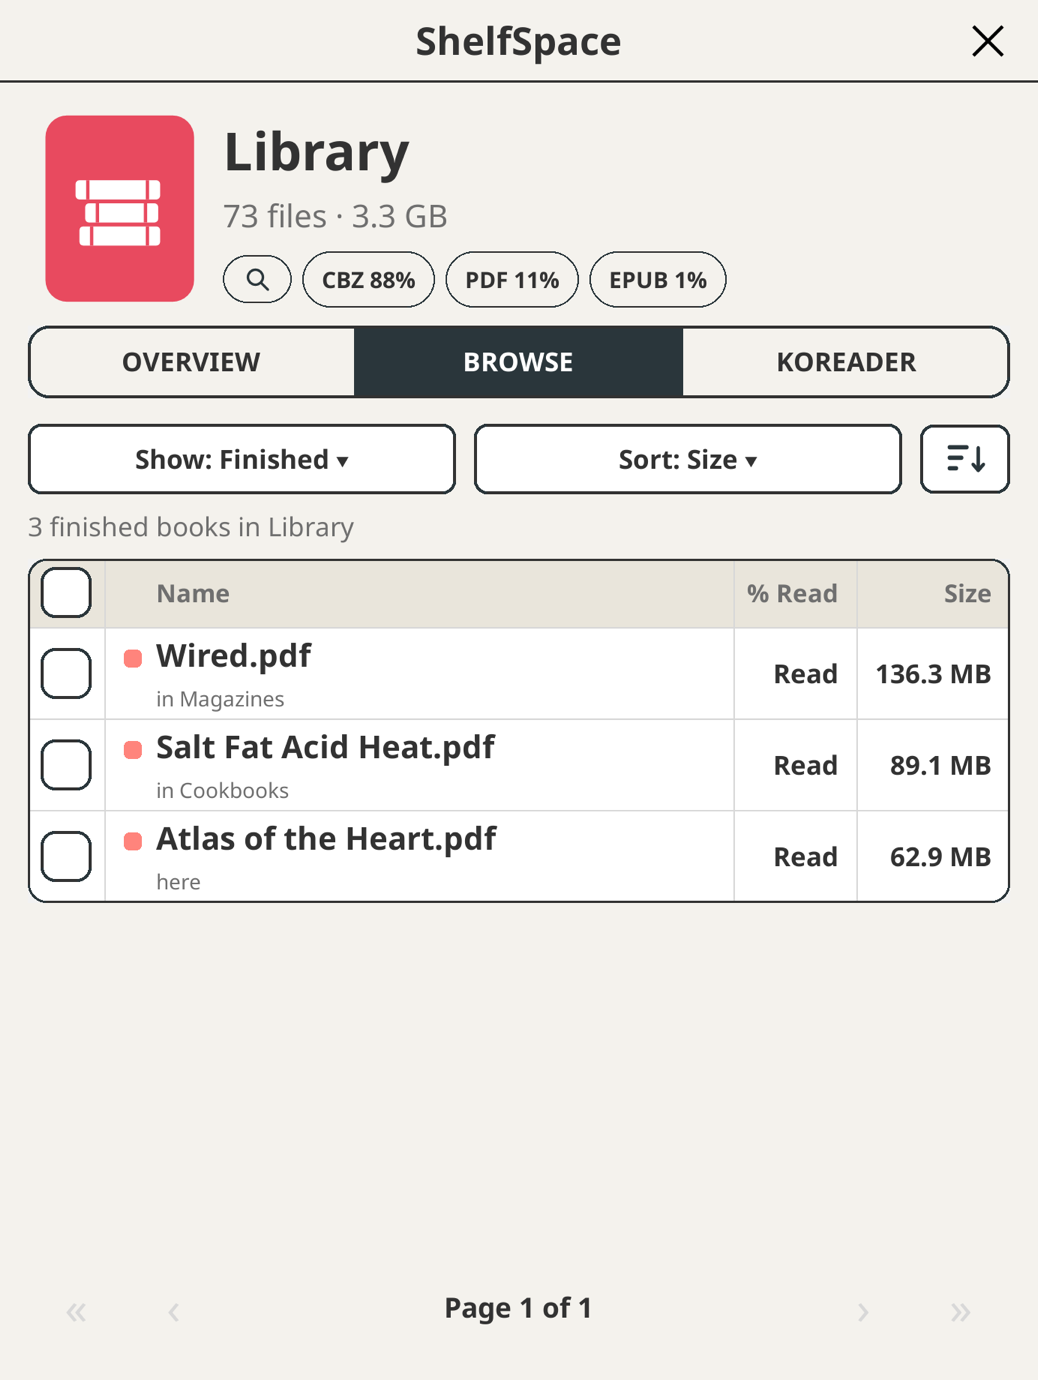
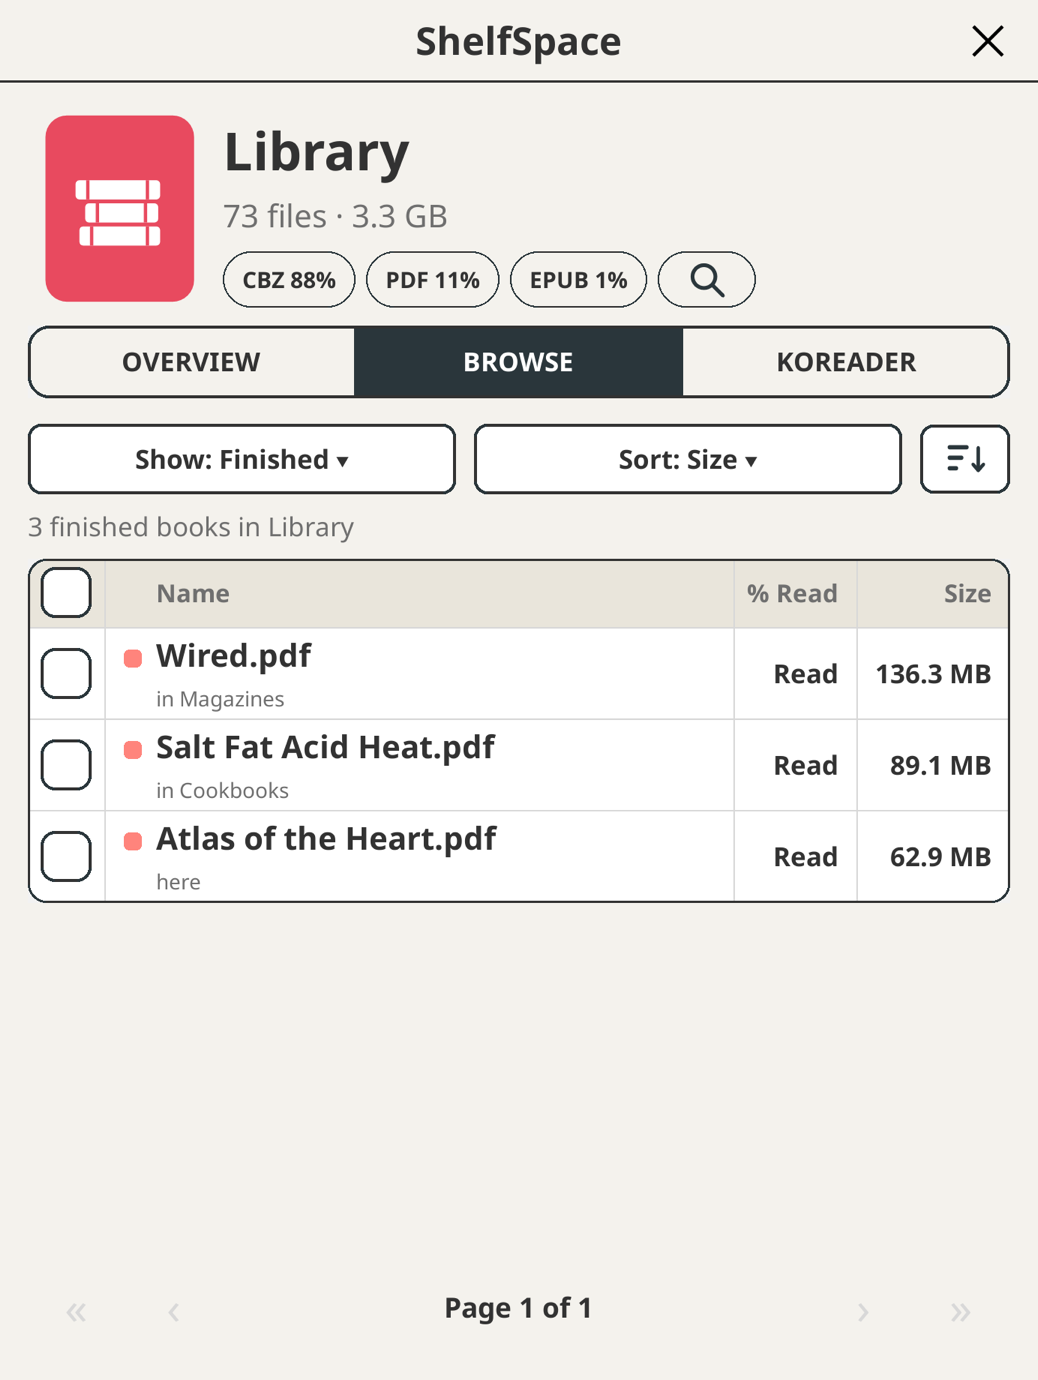
fix: put the search tag last, sized like the others (#44)
The search tag is last, the same height as the others, and never dropped.

Changed region(s): [[0.2158, 0.187, 0.7091, 0.2181]]

diff --git a/README.md b/README.md
@@ -46,7 +46,7 @@ Open **Tools › ShelfSpace**. Three tabs:
   each book you are (0% to 99%, or Read once it is finished), from KOReader's own
   reading progress. The file
   type chips at the top are quick filters: tap one to show only that type
-  (tap it again to clear). Sort by size, name, date or when you last opened it (the arrow beside the sort flips the direction), or search by name (the magnifier tag beside the types; once you have searched, the tag shows your search and tapping it clears it) across
+  (tap it again to clear). Sort by size, name, date or when you last opened it (the arrow beside the sort flips the direction), or search by name (the magnifier tag after the types; once you have searched, the tag shows your search and tapping it clears it) across
   the folder you are in and everything under it. **Show** narrows the list to the
   books KOReader has marked as finished, or to the ones you never opened,
   wherever they are in the library, so what you have already read (or never
